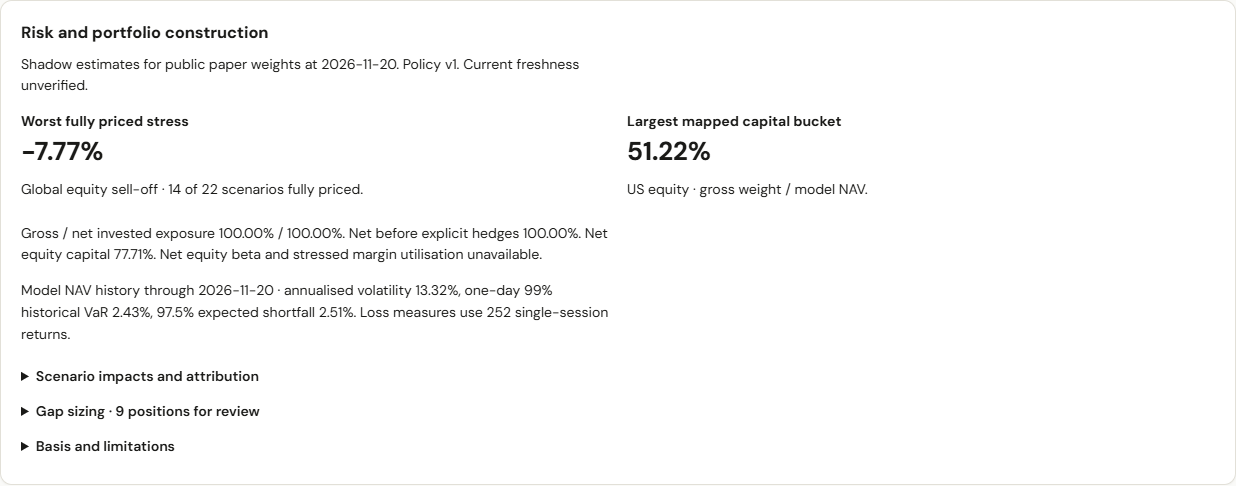
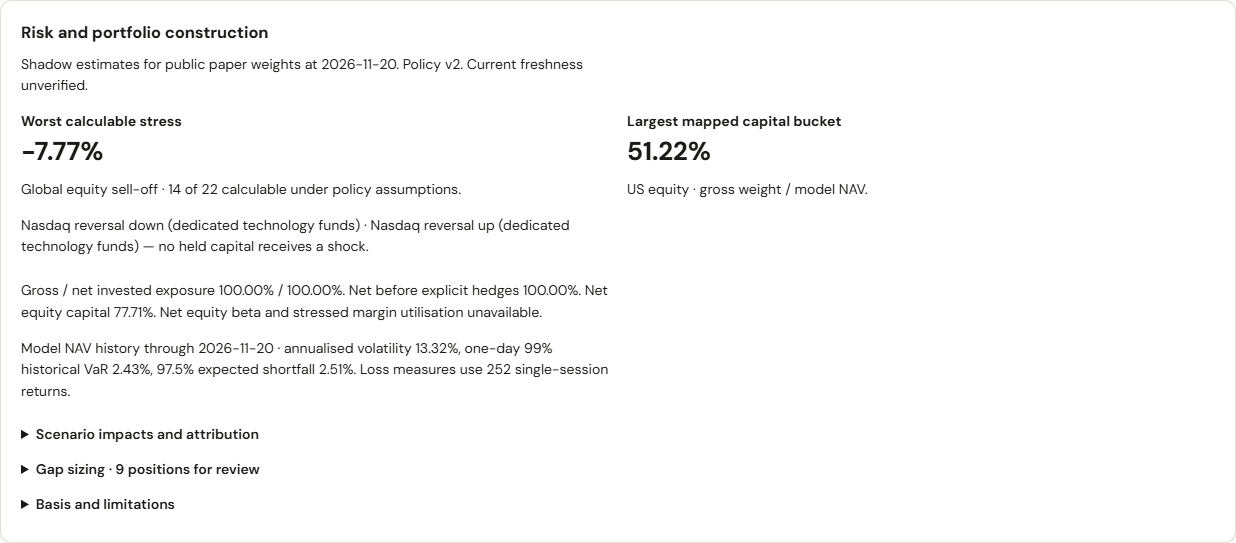
Resolve stress coverage and gap sizing review findings

diff --git a/template.html b/template.html
@@ -1560,13 +1560,20 @@ function constructionRisk(){
   if(!risk || risk.status!=='shadow'){
     return `<section class="card construction"><h3>Risk and portfolio construction</h3><p>${esc(risk?.reason || 'Shadow analysis is unavailable for this dataset vintage.')}</p></section>`;
   }
+  if(!risk.scenarios.every(s=>s.coverage)){
+    return '<section class="card construction"><h3>Risk and portfolio construction</h3><p>This dataset predates the coverage checks. Updated diagnostics require a fresh build.</p></section>';
+  }
   const h=risk.history, m=h.metrics||{};
+  const zeroShock=risk.scenarios.filter(s=>s.total!==null && s.coverage.shocked===0);
+  const gateLabel={RISK_ON:'open (risk-on)',RISK_OFF:'active (risk-off)'}[risk.gateState]||'unverified';
+  const indeterminate=risk.gaps.filter(g=>g.review===null).length;
   const value=x=>isNum(x)?pct(x,2):'Unavailable';
   const signed=x=>isNum(x)?pctSigned(x,2):'Unavailable';
   const bucket=s=>esc(s.replaceAll('_',' ').replace(/^us /,'US ').replace(/^china /,'China '));
   const pairs=obj=>Object.entries(obj).map(([key,v])=>bucket(key)+' '+signed(v)).join(' · ');
   const largest=Object.entries(risk.grossByBucket).filter(([key])=>key!=='unmapped').sort((a,b)=>b[1]-a[1])[0];
-  const gapRows=risk.gaps.map(g=>`<tr><td>${esc(g.ticker)}</td><td>${value(g.weight)}</td><td>${value(g.shock)}</td><td>${value(g.loss)}</td><td>${value(g.cap)} · ${esc(g.binding||'unavailable')}</td><td>${g.review===null?'Unavailable':g.review?'Review':'Within tested caps'}</td></tr>`).join('');
+  const gapRows=risk.gaps.map(g=>`<tr><td>${esc(g.ticker)}</td><td>${value(g.weight)}</td><td>${value(g.shock)}</td><td>${value(g.loss)}</td><td>${value(g.cap)} · ${esc(g.binding||'unavailable')}</td><td>${g.review===null?'Indeterminate':g.review?'Review':'Within tested caps'}</td></tr>`).join('');
+  const proxyRows=risk.sharedProxies.map(p=>`<p data-proxy><strong>${esc(p.proxy)}</strong> · ${p.tickers.map(esc).join(' + ')} · net ${value(p.net)} of NAV · common gap ${value(p.shock)} · NAV loss ${value(p.loss)}</p>`).join('');
   const scenarios=risk.scenarios.map(s=>{
     const losers=s.positions.filter(p=>p.pnl<0).slice(0,2).map(p=>esc(p.ticker)+' '+signed(p.pnl)).join(', ');
     const driver=s.driver?esc(s.driver)+' '+(s.driver==='yield (bp)'?esc(String(s.move))+' bp':signed(s.move))+'. ':'';
@@ -1575,19 +1582,22 @@ function constructionRisk(){
       <p>Bucket price shocks · ${pairs(s.prices)||'None priced'}. Other covered buckets held flat.</p>
       <p>Unpriced holdings · ${s.missing.map(esc).join(', ')||'None'}. Covered subtotal · ${signed(s.coveredPnl)} NAV.</p>
       <p>Position contributions · ${priced||'None'}</p><p>Factor contributions · ${pairs(s.factors)||'None'}</p>
-      </details></td><td>${signed(s.total)}</td><td>${pairs(s.sleeves)||'Unavailable'}</td><td>${losers||'None priced at a loss'}</td><td>${signed(s.hedgePnl)}</td></tr>`;
+      </details></td><td><span data-impact>${signed(s.total)}</span>${s.compareDefensiveGate?`<div>Gate ${esc(gateLabel)}</div>`:''}${s.gateComparison?`<div data-gated>Hypothetical ${pct(s.gateComparison.fraction,0)} shift to ${esc(s.gateComparison.reserve)}: ${signed(s.gateComparison.total)}</div>`:''}</td>
+      <td data-coverage>${value(s.coverage.shocked)} / ${value(s.coverage.flat)} / ${value(s.coverage.unpriced)}</td><td>${pairs(s.sleeves)||'Unavailable'}</td><td>${losers||'None priced at a loss'}</td><td>${signed(s.hedgePnl)}</td></tr>`;
   }).join('');
   return `<section class="card construction" id="constructionRisk"><h3>Risk and portfolio construction</h3>
     <p>Shadow estimates for public paper weights at ${esc(risk.anchor)}. Policy v${esc(String(risk.version))}. <span data-construction-health>${esc(effectiveHealth(DS).assessment_current?"Dataset health: "+DS.health.level+".":"Current freshness unverified.")}</span></p>
-    <div class="grid2"><div><strong>Worst fully priced stress</strong><div class="stress-value" data-worst>${signed(risk.worst?.total)}</div>
-    <p>${esc(risk.worst?.name||'Unavailable')} · ${risk.complete} of ${risk.scenarios.length} scenarios fully priced.</p></div>
+    <div class="grid2"><div><strong>Worst calculable stress</strong><div class="stress-value" data-worst>${signed(risk.worst?.total)}</div>
+    <p>${esc(risk.worst?.name||'Unavailable')} · ${risk.complete} of ${risk.scenarios.length} calculable under policy assumptions.</p>
+    <p>${zeroShock.length?esc(zeroShock.map(s=>s.name).join(' · '))+' — no held capital receives a shock.':''}</p></div>
     <div><strong>Largest mapped capital bucket</strong><div class="stress-value">${value(largest?.[1])}</div><p>${largest?bucket(largest[0]):'Unavailable'} · gross weight / model NAV.</p></div></div>
     <p>Gross / net invested exposure ${value(risk.gross)} / ${value(risk.net)}. Net before explicit hedges ${value(risk.preHedgeNet)}. Net equity capital ${value(risk.equityNet)}. Net equity beta and stressed margin utilisation unavailable.</p>
     <p>Model NAV history through ${esc(h.asOf||'unknown')} · annualised volatility ${value(m.vol)}, one-day 99% historical VaR ${value(m.var99)}, 97.5% expected shortfall ${value(m.es975)}. Loss measures use ${h.observations} single-session returns.</p>
-    <details><summary>Scenario impacts and attribution</summary><p>Each row is a separate USD price experiment. Contributions are percentages of total NAV. Expand a scenario for shocks and coverage.</p>
-    <div class="stress-scroll"><table class="tbl"><thead><tr><th>Scenario</th><th>NAV impact</th><th>Priced sleeve contributions</th><th>Largest priced losses</th><th>Explicit hedge P&amp;L</th></tr></thead><tbody>${scenarios}</tbody></table></div></details>
-    <details><summary>Gap sizing · ${risk.gaps.filter(g=>g.review===true).length} positions for review</summary><p>Adverse gap loss is weight magnitude × overnight shock. The ceiling applies the tightest configured cap. Volatility, trading liquidity and execution headroom remain unverified. Stops can fill beyond their trigger price.</p>
-    <div class="stress-scroll"><table class="tbl"><thead><tr><th>Holding</th><th>NAV weight</th><th>Gap</th><th>NAV loss</th><th>Shadow ceiling</th><th>Status</th></tr></thead><tbody>${gapRows}</tbody></table></div></details>
+    <details><summary>Scenario impacts and attribution</summary><p>Coverage shows gross weight as a percentage of NAV, split into shocked, assumed flat and unpriced holdings. Contributions are percentages of total NAV. Expand a scenario for shocks and coverage.</p>
+    <div class="stress-scroll"><table class="tbl"><thead><tr><th>Scenario</th><th>NAV impact</th><th>Shocked / flat / unpriced</th><th>Priced sleeve contributions</th><th>Largest priced losses</th><th>Explicit hedge P&amp;L</th></tr></thead><tbody>${scenarios}</tbody></table></div></details>
+    <details><summary>Gap sizing · ${risk.gaps.filter(g=>g.review===true).length} positions for review${indeterminate?' · '+indeterminate+' indeterminate':''}</summary><p>Adverse gap loss is weight magnitude × overnight shock. The ceiling applies the tightest configured cap. Volatility, trading liquidity and execution headroom remain unverified. Stops can fill beyond their trigger price.</p>
+    <div class="stress-scroll"><table class="tbl"><thead><tr><th>Holding</th><th>NAV weight</th><th>Gap</th><th>NAV loss</th><th>Shadow ceiling</th><th>Status</th></tr></thead><tbody>${gapRows}</tbody></table></div>
+    ${proxyRows?`<strong>Shared trade proxies</strong>${proxyRows}<p>Informational subtotal across instruments sharing the registry proxy. The per-name flag count excludes these subtotals. A common loss estimate requires the same symmetric price shock.</p>`:''}</details>
     <details><summary>Basis and limitations</summary><p>Source: upstream effective model weights and published USD NAV. The Treasury reserve is a funded holding. Its P&amp;L follows the reconciled sleeve weights, including any allocation directly attributable to the defensive gate. Explicit hedge P&amp;L covers separately held hedges. A counterfactual without the defensive allocation needs the displaced holdings.</p>
     <p>Historical 95% one-day VaR ${value(m.var95)}. Empirical loss quantiles and fractional-tail expected shortfall use the most recent 252 valid NYSE returns. First close ${esc(h.start||'unavailable')}, excluded gaps ${h.excluded??'unavailable'}. VaR can be exceeded. Stress shocks are illustrative and carry no probability. Estimates exclude trading costs and margin calls.</p></details></section>`;
 }

diff --git a/scripts/shadow_risk.py b/scripts/shadow_risk.py
@@ -15,6 +15,7 @@ import pandas_market_calendars as mcal
 from config import TRADING_DAYS_PER_YEAR
 
 POLICIES = Path(__file__).resolve().parents[1] / "portfolios" / "risk"
+UNRESOLVED = "Unresolved sleeve"
 
 
 def number(value):
@@ -79,13 +80,22 @@ def anchored_legs(live, registry, overlay):
             legs[ticker][sleeve] = alloc
             continue
         data = live.get("sleeve_extensions", {}).get(cfg["key"], {})
-        if data.get("anchor_date") != live.get("anchor_date"):
-            return {}, {}
-        for ticker, weight in data.get("weights", {}).items():
-            if not number(weight) or weight < 0:
-                return {}, {}
+        weights = data.get("weights")
+        if (not live.get("anchor_date") or data.get("anchor_date") != live["anchor_date"]
+                or not isinstance(weights, dict) or not weights
+                or not all(number(w) and w >= 0 for w in weights.values())):
+            continue
+        total = sum(weights.values())
+        if total > 1.001:
+            continue
+        # Match upstream normalisation of four-decimal within-sleeve weights.
+        divisor = total if abs(total - 1) <= .001 else 1
+        for ticker, weight in weights.items():
             if weight:
-                legs[ticker][sleeve] = alloc * weight
+                legs[ticker][sleeve] = alloc * weight / divisor
+        if total < .999:
+            reserve = overlay["gate_parameters"]["fallback_ticker"]
+            legs[reserve][sleeve] = legs[reserve].get(sleeve, 0) + alloc * (1 - total)
     if gate:
         allocations["DEFENSIVE"] = gate
         legs[overlay["gate_parameters"]["fallback_ticker"]]["DEFENSIVE"] = gate
@@ -100,9 +110,11 @@ def sleeve_weights(row, legs):
         total = sum(parts.values())
         if total and abs(total - weight) <= (len(parts) + 1) * 0.00005:
             return {key: value * weight / total for key, value in parts.items()}
-        return {"Unresolved sleeve": weight}
+        if 0 < total < weight:
+            return {**parts, UNRESOLVED: weight - total}
+        return {UNRESOLVED: weight}
     if row["sleeve"] == "CASH":
-        return {"Treasury reserve (origin unresolved)": weight}
+        return {UNRESOLVED: weight}
     legs = row.get("build") or []
     if legs and all(number(x.get("contrib")) and x.get("sleeve") for x in legs):
         parts = defaultdict(float)
@@ -111,22 +123,25 @@ def sleeve_weights(row, legs):
         total = sum(parts.values())
         if total and abs(total - weight) <= (len(legs) + 1) * 0.00005:
             return {key: v * weight / total for key, v in parts.items()}
-    return {"Unresolved sleeve": weight}
+    return {UNRESOLVED: weight}
 
 
 def stress(rows, scenario):
     by_sleeve, by_factor = defaultdict(float), defaultdict(float)
     positions, missing = [], []
+    coverage = {"shocked": 0.0, "flat": 0.0, "unpriced": 0.0}
     hedge_pnl = 0.0
     hedge_known = True
     for row in rows:
         group = row["group"]
         if group not in scenario["prices"] and group not in scenario.get("flat", []):
             missing.append(row["ticker"])
+            coverage["unpriced"] += abs(row["weight"])
             if group is None or row.get("isHedge"):
                 hedge_known = False
             continue
         shock = scenario["prices"].get(group, 0)
+        coverage["shocked" if shock else "flat"] += abs(row["weight"])
         pnl = row["weight"] * shock
         if row.get("isHedge"):
             hedge_pnl += pnl
@@ -136,7 +151,7 @@ def stress(rows, scenario):
             by_sleeve[sleeve] += weight * shock
     covered = sum(p["pnl"] for p in positions)
     return {**scenario, "total": None if missing else covered, "coveredPnl": covered,
-            "missing": missing, "positions": sorted(positions, key=lambda p: p["pnl"]),
+            "coverage": coverage, "missing": missing, "positions": sorted(positions, key=lambda p: p["pnl"]),
             "sleeves": dict(by_sleeve), "factors": dict(by_factor),
             "hedgePnl": hedge_pnl if hedge_known else None}
 
@@ -174,7 +189,30 @@ def gap_limits(rows, policy, allocations):
         item.update(loss=size * shock, constraints=constraints, cap=min(constraints.values()),
                     binding=min(constraints, key=constraints.get),
                     review=size > min(constraints.values()) + .000005)
+        if UNRESOLVED in row["parts"]:
+            # A proven breach survives incomplete ownership. An incomplete pass
+            # cannot establish either a ceiling or clearance to increase size.
+            item.update(cap=None, binding="Sleeve ownership incomplete",
+                        review=True if item["review"] else None)
     return limits
+
+
+def shared_proxies(rows, gaps):
+    """Common symmetric price gap on signed weights, grouped by execution proxy."""
+    groups = defaultdict(list)
+    for row, gap in zip(rows, gaps, strict=True):
+        if row.get("tradeAs"):
+            groups[row["tradeAs"]].append(gap)
+    output = []
+    for proxy, positions in groups.items():
+        if len(positions) < 2:
+            continue
+        shocks = {p["shock"] for p in positions}
+        shock = shocks.pop() if len(shocks) == 1 else None
+        net = sum(p["weight"] for p in positions)
+        output.append({"proxy": proxy, "tickers": [p["ticker"] for p in positions],
+                       "net": net, "shock": shock, "loss": abs(net)*shock if shock is not None else None})
+    return output
 
 
 def historical_path(equity):
@@ -235,6 +273,18 @@ def build(dataset, policy, *, legs=None, allocations=None):
             abs(sum(r["weight"] for r in rows) - 1) > len(rows) * .000005 + 1e-10):
         return {"status": "unavailable", "reason": "Undated book or weights do not reconcile to NAV."}
     scenarios = [stress(rows, s) for s in policy["scenarios"]]
+    regime = dataset.get("regime", {})
+    gate_state = regime.get("live_state")
+    fraction = regime.get("derisk_fraction")
+    reserve = regime.get("fallback_ticker")
+    reserve_group = by_ticker.get(reserve)
+    for scenario in scenarios:
+        if (scenario.get("compareDefensiveGate") and gate_state == "RISK_ON"
+                and scenario["total"] is not None and number(fraction) and 0 < fraction <= 1
+                and reserve_group in scenario["prices"]):
+            reserve_return = scenario["prices"][reserve_group]
+            scenario["gateComparison"] = {"fraction": fraction, "reserve": reserve,
+                                          "total": (1-fraction)*scenario["total"] + fraction*reserve_return}
     complete = [s for s in scenarios if s["total"] is not None]
     worst = min(complete, key=lambda x: x["total"]) if complete else None
     known = all(r["group"] for r in rows)
@@ -242,11 +292,12 @@ def build(dataset, policy, *, legs=None, allocations=None):
     for r in rows:
         factors[r["group"] or "unmapped"] += abs(r["weight"])
     net = sum(r["weight"] for r in rows) if known else None
+    gaps = gap_limits(rows, policy["gap"], allocations or {})
     return {"status": "shadow", "version": policy["version"], "anchor": meta["portfolio_anchor"],
             "history": historical_path(dataset["equity"]), "gross": sum(factors.values()) if known else None,
             "net": net, "preHedgeNet": sum(r["weight"] for r in rows if not r.get("isHedge")) if known else None,
             "grossByBucket": dict(factors),
             "equityNet": sum(r["weight"] for r in rows if r["assetClass"] == "Equity") if known else None,
             "worst": {"name": worst["name"], "total": worst["total"]} if worst else None,
-            "complete": len(complete), "scenarios": scenarios,
-            "gaps": gap_limits(rows, policy["gap"], allocations or {})}
+            "gateState": gate_state, "complete": len(complete), "scenarios": scenarios,
+            "gaps": gaps, "sharedProxies": shared_proxies(rows, gaps)}

diff --git a/tests/test_shadow_risk.py b/tests/test_shadow_risk.py
@@ -82,7 +82,10 @@ def test_shared_reserve_and_overlay_legs(policy):
     assert s["sleeves"]["A"] == pytest.approx(.2 * .006 - .2 * .09)
     assert s["sleeves"]["TILT"] == pytest.approx(-.1 * .10)
     live["sleeve_extensions"]["base"]["anchor_date"] = "2024-12-31"
-    assert risk.anchored_legs(live, reg, overlay) == ({}, {})
+    partial, _ = risk.anchored_legs(live, reg, overlay)
+    assert dict(partial) == {"EEM": {"TILT": .1}, "SHY": {"DEFENSIVE": .5}}
+    parts = risk.sleeve_weights(ds["weights"]["rows"][1], partial)
+    assert parts == pytest.approx({"DEFENSIVE": .5, "Unresolved sleeve": .2})
     unknown = risk.build(ds, policy, legs={})["scenarios"][-1]
     assert list(unknown["sleeves"]) == ["Unresolved sleeve"]
 
@@ -99,6 +102,56 @@ def test_tightest_available_cap_and_treasury_yield_coverage(policy):
     assert g["review"]
     s = next(s for s in out["scenarios"] if s["name"] == "US Treasury yields up")
     assert s["total"] is None and s["missing"] == ["SHY"]
+
+
+def test_stale_unrelated_sleeve_cannot_clear_a_gap_flag(policy):
+    ds = book(("SPY", .85), ("SHY", .15))
+    p = policy["gap"]["lossBudgets"]["sleeve"]
+    p["C"] = .001
+    reg = {"sleeves": {s: {"key": s, "alloc": w} for s, w in (("A", .5), ("B", .4), ("C", .1))}}
+    live = {"anchor_date": "2025-01-03", "regime_state": "RISK_ON", "eem_tilt_active": False,
+            "sleeve_extensions": {s: {"anchor_date": "2025-01-03", "weights": weights} for s, weights in
+                                 (("A", {"SPY": 1}), ("B", {"SHY": .125, "SPY": .875}), ("C", {"SHY": 1}))}}
+    def check():
+        legs, alloc = risk.anchored_legs(live, reg, {})
+        result = risk.build(ds, policy, legs=legs, allocations=alloc)
+        return result["gaps"][1]
+    assert check()["cap"] == pytest.approx(.075)
+    live["sleeve_extensions"]["A"]["anchor_date"] = None
+    assert check()["review"] is True and check()["cap"] == pytest.approx(.075)
+    live["sleeve_extensions"]["C"]["anchor_date"] = None
+    assert check()["review"] is None and check()["cap"] is None
+    policy["gap"]["positionCaps"]["SHY"] = .1
+    assert check()["review"] is True and check()["cap"] is None
+
+
+def test_coverage_gate_and_shared_proxy(policy):
+    ds = book(("SPY", .6), ("CSP1", .2), ("SHY", .2))
+    for row in ds["weights"]["rows"][:2]:
+        row["tradeAs"] = "SPY"
+    ds["regime"] = {"live_state": "RISK_ON", "derisk_fraction": .5, "fallback_ticker": "SHY"}
+    out = risk.build(ds, policy)
+    sc = {s["name"]: s for s in out["scenarios"]}
+    nasdaq = next(s for s in sc.values() if s["name"].startswith("Nasdaq"))
+    assert nasdaq["total"] == 0 and nasdaq["coverage"] == {"shocked": 0, "flat": 1, "unpriced": 0}
+    assert sc["US Treasury yields up"]["coverage"] == pytest.approx({"shocked": 0, "flat": .8, "unpriced": .2})
+    recovery = sc["Recovery shock on current weights"]
+    assert recovery["gateComparison"]["total"] == pytest.approx((.8*.08 - .2*.005)*.5 - .5*.005)
+    assert out["sharedProxies"][0]["loss"] == pytest.approx(.08)
+    for state in ("RISK_OFF", None):
+        ds["regime"]["live_state"] = state
+        assert all("gateComparison" not in s for s in risk.build(ds, policy)["scenarios"])
+
+
+def test_proxy_gap_respects_signs_and_incompatible_shocks(policy):
+    ds = book(("SPY", 1.2), ("CSP1", -.2))
+    for row in ds["weights"]["rows"]:
+        row["tradeAs"] = "SPY"
+    out = risk.build(ds, policy)
+    assert out["sharedProxies"][0]["loss"] == pytest.approx(.1)
+    assert out["scenarios"][-1]["coverage"]["shocked"] == pytest.approx(1.4)
+    ds["weights"]["rows"][1]["instrumentType"] = "option"
+    assert risk.build(ds, policy)["sharedProxies"][0]["loss"] is None
 
 
 @pytest.mark.parametrize("start", ["2023-01-31", "2023-12-29"])

diff --git a/RISK_REVIEW.md b/RISK_REVIEW.md
@@ -23,15 +23,19 @@ The present data support deterministic price shocks on a model snapshot and hist
 
 ## Phase 1 methodology
 
-The normal pipeline attaches `construction_risk` when the public paper portfolio has a matching policy under `portfolios/risk/`. Version 1 contains seven two-sided shocks, one global equity decline and seven joint scenarios. Each experiment holds the model anchor weights fixed. It assumes an instantaneous move, with no intervening fills, financing, trading costs or margin calls. The historical NAV metrics have their own end date. The dashboard health clock indicates when current freshness requires rechecking.
+The normal pipeline attaches `construction_risk` when the public paper portfolio has a matching policy under `portfolios/risk/`. Version 2 contains seven two-sided shocks, one global equity decline and seven joint scenarios. Each experiment holds the model anchor weights fixed. It assumes an instantaneous move, with no intervening fills, financing, trading costs or margin calls. The historical NAV metrics have their own end date. The dashboard health clock indicates when current freshness requires rechecking.
 
 **Scenario P&L.** Each allowlisted position belongs to one price bucket. A joint scenario supplies one all-in USD price change for each bucket. For an isolated experiment, omitted covered buckets are expressly held flat. A named unpriced bucket or an unrecognised instrument prevents a whole-book total. The covered subtotal retains its original NAV denominator. A zero result under the dedicated US technology proxy measures only that bucket. Embedded semiconductor or issuer exposures through other funds require constituent look-through. The commodity experiment shocks a broad basket. The yield experiment requires dated duration before a bond price impact can be estimated. The joint bond moves are explicit fund price assumptions. No instrument duration, option sensitivity or yield-to-price multiplier has been inferred.
 
-**Attribution and exposure.** Multiply each signed weight by its bucket price change. Sum over positions, factors or dated sleeve legs to reconcile to the covered subtotal. Sleeve legs use the engine's anchor-date books, tilt funding and gate fraction. Round-off is allocated proportionally only within the source precision tolerance. A discrepancy remains in an unresolved sleeve. The Treasury reserve can belong to several sleeves. Net and gross exposure sum signed and absolute weights of the covered fully funded instruments, respectively. Net before hedges removes only designated hedge positions. Explicit hedge P&L is a subset of the position total. The reduction in risk from a gate requires a separate ungated counterfactual. Factor concentration here measures capital assigned to a bucket. Portfolio beta, delta-equivalent notional and margin require different inputs.
+**Attribution and exposure.** Multiply each signed weight by its bucket price change. Sum over positions, factors or dated sleeve legs to reconcile to the covered subtotal. Sleeve legs use the engine's anchor-date books, tilt funding and gate fraction. Round-off is allocated proportionally only within the source precision tolerance. An unavailable sleeve leaves the other dated books intact. Any unmatched balance is shown under unresolved ownership. Conflicting legs in excess of the position invalidate its split. The Treasury reserve can belong to several sleeves. Net and gross exposure sum signed and absolute weights of the covered fully funded instruments, respectively. Net before hedges removes only designated hedge positions. Explicit hedge P&L is a subset of the position total. The reduction in risk from a gate requires a separate ungated counterfactual. Factor concentration here measures capital assigned to a bucket. Portfolio beta, delta-equivalent notional and margin require different inputs.
 
 **Gap ceilings.** The initial 0.50% of NAV per-name budget and bucket shocks are illustrative. A 10% adverse move with that budget gives a 5% weight ceiling. For a short, the adverse move is upwards. The loss column is a positive magnitude. The tightest applicable budget across portfolio default, asset class, instrument type and owning sleeve controls. A sleeve-specific budget applies to its share of a shared holding. Current sleeve allocations, optional name caps and gross factor headroom can tighten the ceiling further. Other positions remain fixed in the headroom calculation. The output is a ceiling under tested constraints. A final trading size also needs verified volatility sizing and liquidity. Unsupported nonlinear and leveraged instruments return unavailable. A stop order supplies no guaranteed overnight execution price.
 
 **Historical tails.** Use the USD deployed model curve and its separately supplied post-anchor extension. Reindex closes to NYSE sessions before differencing, omit returns touching a missing close, and require 252 valid returns including the last reported session. Annualised volatility uses sample standard deviation times √252. Sort one-day losses from worst to best. At confidence α, historical VaR selects rank ceil((1−α)×252). Expected shortfall at 97.5% averages the worst 6.3 observations with fractional weight on the seventh. A loss-positive convention allows negative estimates in an all-gain sample. Tail estimates describe a changing historical model. A current-holdings distribution, probability of a scenario and maximum potential loss are separate questions. The short tail sample makes a single VaR exceedance weak evidence.
+
+**Coverage and shared exposures.** Each scenario reports absolute model weight divided by NAV in three categories: shocked, explicitly flat and unpriced. Their sum equals gross invested weight. A calculable total can have zero shocked weight. The recovery row identifies the gate state at the model anchor. For an open gate and a priced reserve, its separate counterfactual applies the configured fraction to the reserve and the remainder to the existing book under identical price assumptions. An active or unverified gate has no second switch applied.
+
+Gap results retain any demonstrable breach if ownership is incomplete. The ceiling is withheld, and other incomplete assessments are indeterminate. The common trade proxy subtotal uses the signed net weight times one common symmetric gap magnitude. Opposing weights offset only within that specified proxy experiment. Divergent or missing shock magnitudes withhold the loss estimate. The subtotal is informational and leaves each instrument's flag intact.
 
 **Governance.** Stress results are informational. Breaches of a shadow gap ceiling invite review. Hard limits are empty. Keep any official exception record private, with the limit, observation date, rationale, owner, status, approver and expiry. A policy version change requires review of mappings, assumptions and tests. No code path creates orders or writes back to source weights.
 
